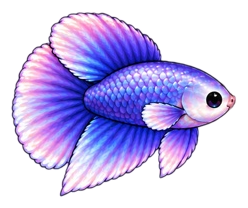
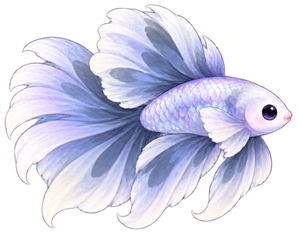
Azure Plakat Betta: new blue art + egg

diff --git a/public/js/data.js b/public/js/data.js
@@ -84,9 +84,9 @@ const DATA = {
 
 /** Frame roles: 0 idle, 1-4 swim, 5 eat (only while eating), 6 sleep, 7 rear/turn */
 // Bump SPRITE_V whenever shipped art changes so phones don't keep stale cached PNGs.
-const SPRITE_V = 37;
+const SPRITE_V = 38;
 // Species with a custom hybrid egg icon (assets/eggs/<species_id>.png).
-const EGG_V = 3;
+const EGG_V = 4;
 const EGG_ART = {
   maple_rose_betta: 1, maple_ember_betta: 1, maple_dusk_betta: 1, maple_storm_betta: 1,
   maple_lilac_betta: 1, maple_petal_betta: 1, maple_tide_betta: 1, maple_coral_betta: 1,
